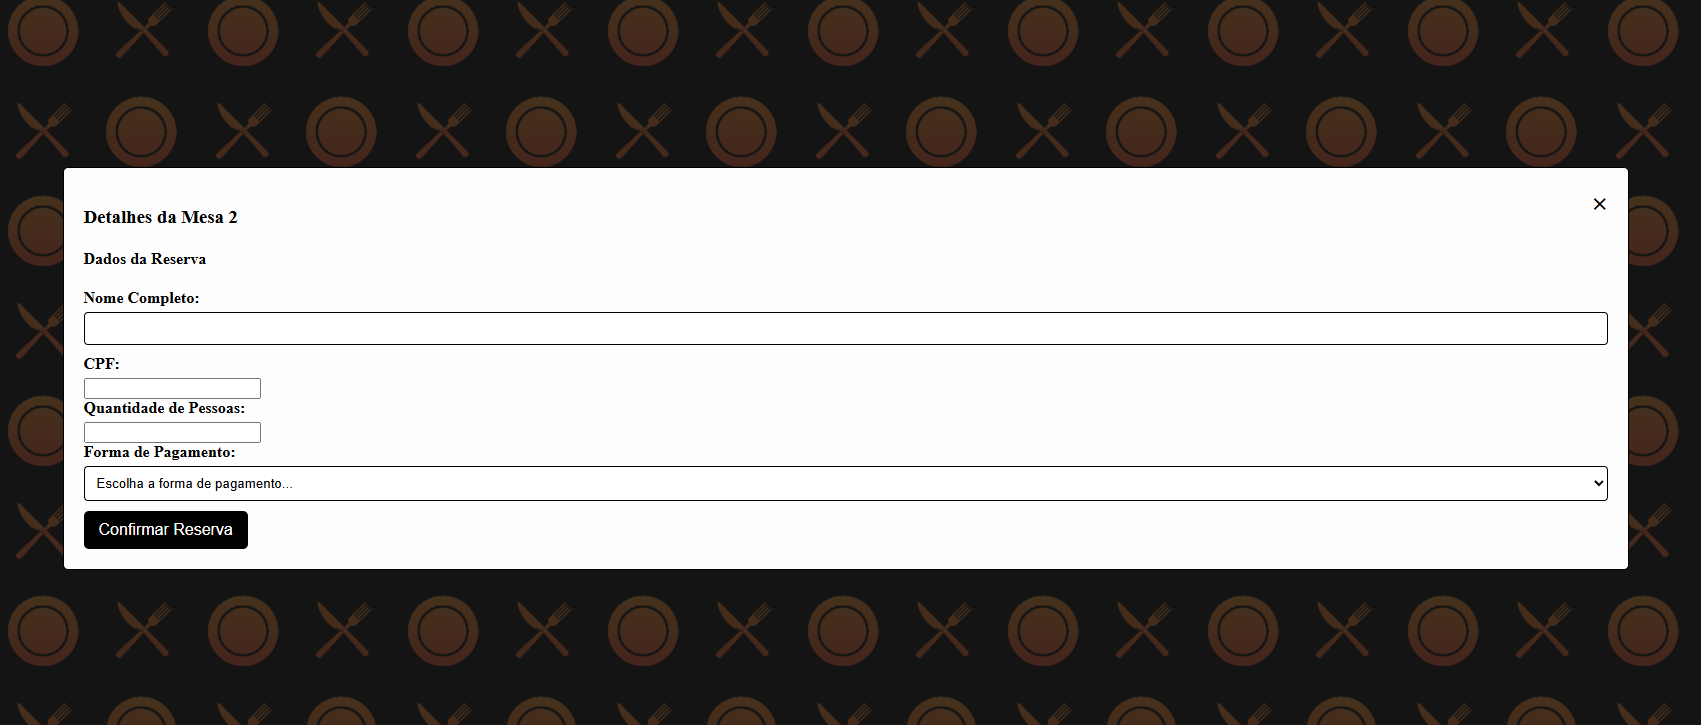
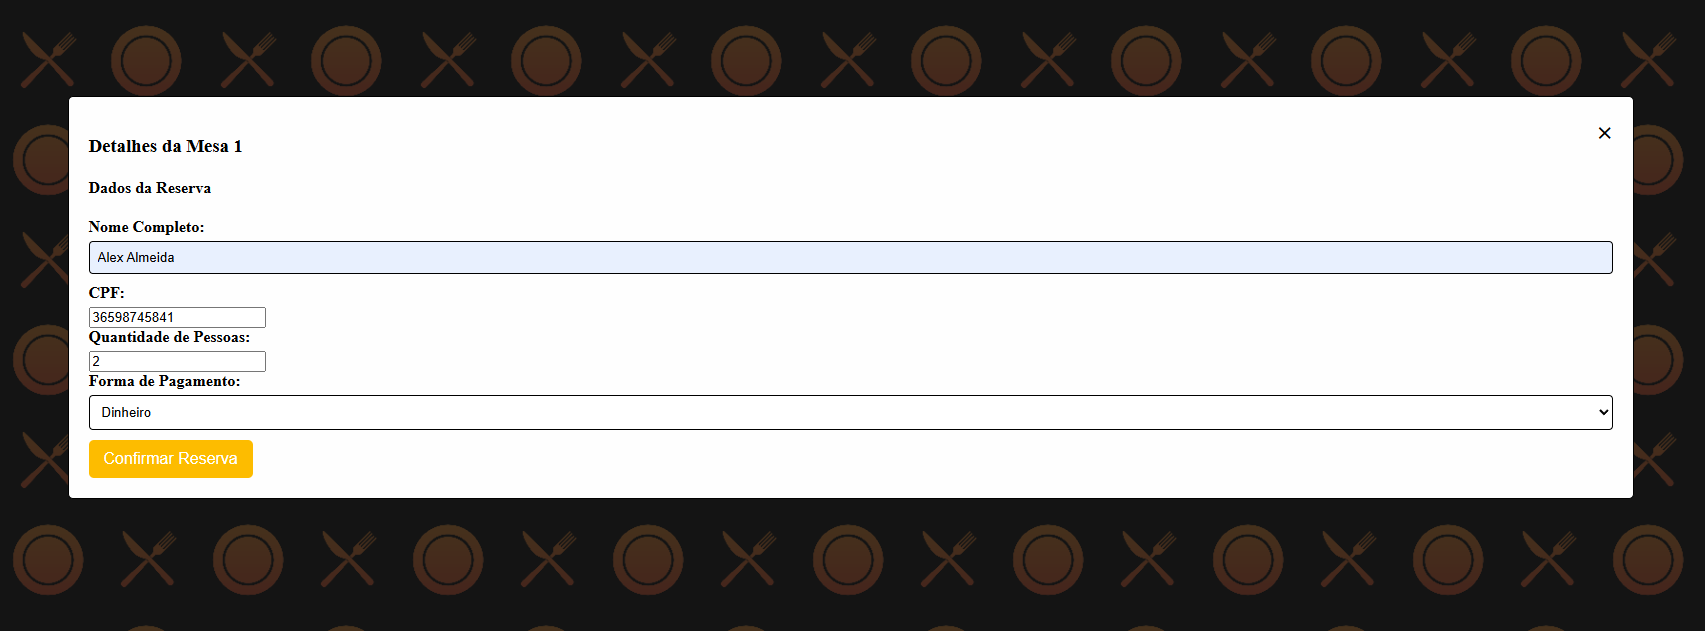
readme

Changed region(s): [[0.0, 0.0, 0.9971, 1.0]]

diff --git a/public/styleAtendente.css b/public/styleAtendente.css
@@ -21,6 +21,16 @@ body {
     margin: 20px auto;
 }
 
+#container_cancelamento button {
+    background-color: #FDBC00;
+    color: white;
+    border: none;
+    padding: 8px 16px;
+    border-radius: 4px;
+    cursor: pointer;
+    margin-top: 10px;
+}
+
 .mesa-img {
     width: 100%;
     max-width: 180px;
@@ -107,7 +117,7 @@ h2 {
 }
 
 .form-reserva button {
-    background-color: #000000;
+    background-color: #FDBC00;
     color: white;
     padding: 10px 15px;
     border: none;

diff --git a/public/scriptatendente.js b/public/scriptatendente.js
@@ -172,7 +172,7 @@ async function mostrarReservas(mesa, data_reserva, hora) {
 
         if (reserva && reserva.id) {
             detalhesReservaDiv.innerHTML = `
-                    <div>
+                    <div id="container_cancelamento">
                         <p><strong>Id:</strong> ${reserva.id}</p>
                         <p><strong>Nome:</strong> ${reserva.nome_responsavel}</p>
                         <p><strong>Data:</strong> ${reserva.data_reserva}</p>

diff --git a/README.md b/README.md
@@ -34,6 +34,20 @@
 
 Projeto de finalização do semestre, um site que registra reservas ou cancela em um banco de dados pelo atendente,  atualiza seu estado como "confirmada" ou "Não confirmada" pelo garçom e gera relatórios pelo gerente baseado nos filtros possíveis.
 
+> Dados para login:
+
+Atendente
+login: func_atendente
+senha: senhaatentende
+-=-=-=-=-=-=-=-=
+Garçom
+login: func_garcom
+senha: senhagarcom
+-=-=-=-=-=-=-=-=
+Gerente
+login: func_gerente
+senha: senhagerente
+
 ## Tecnologias
 - Javascript
 - Node
